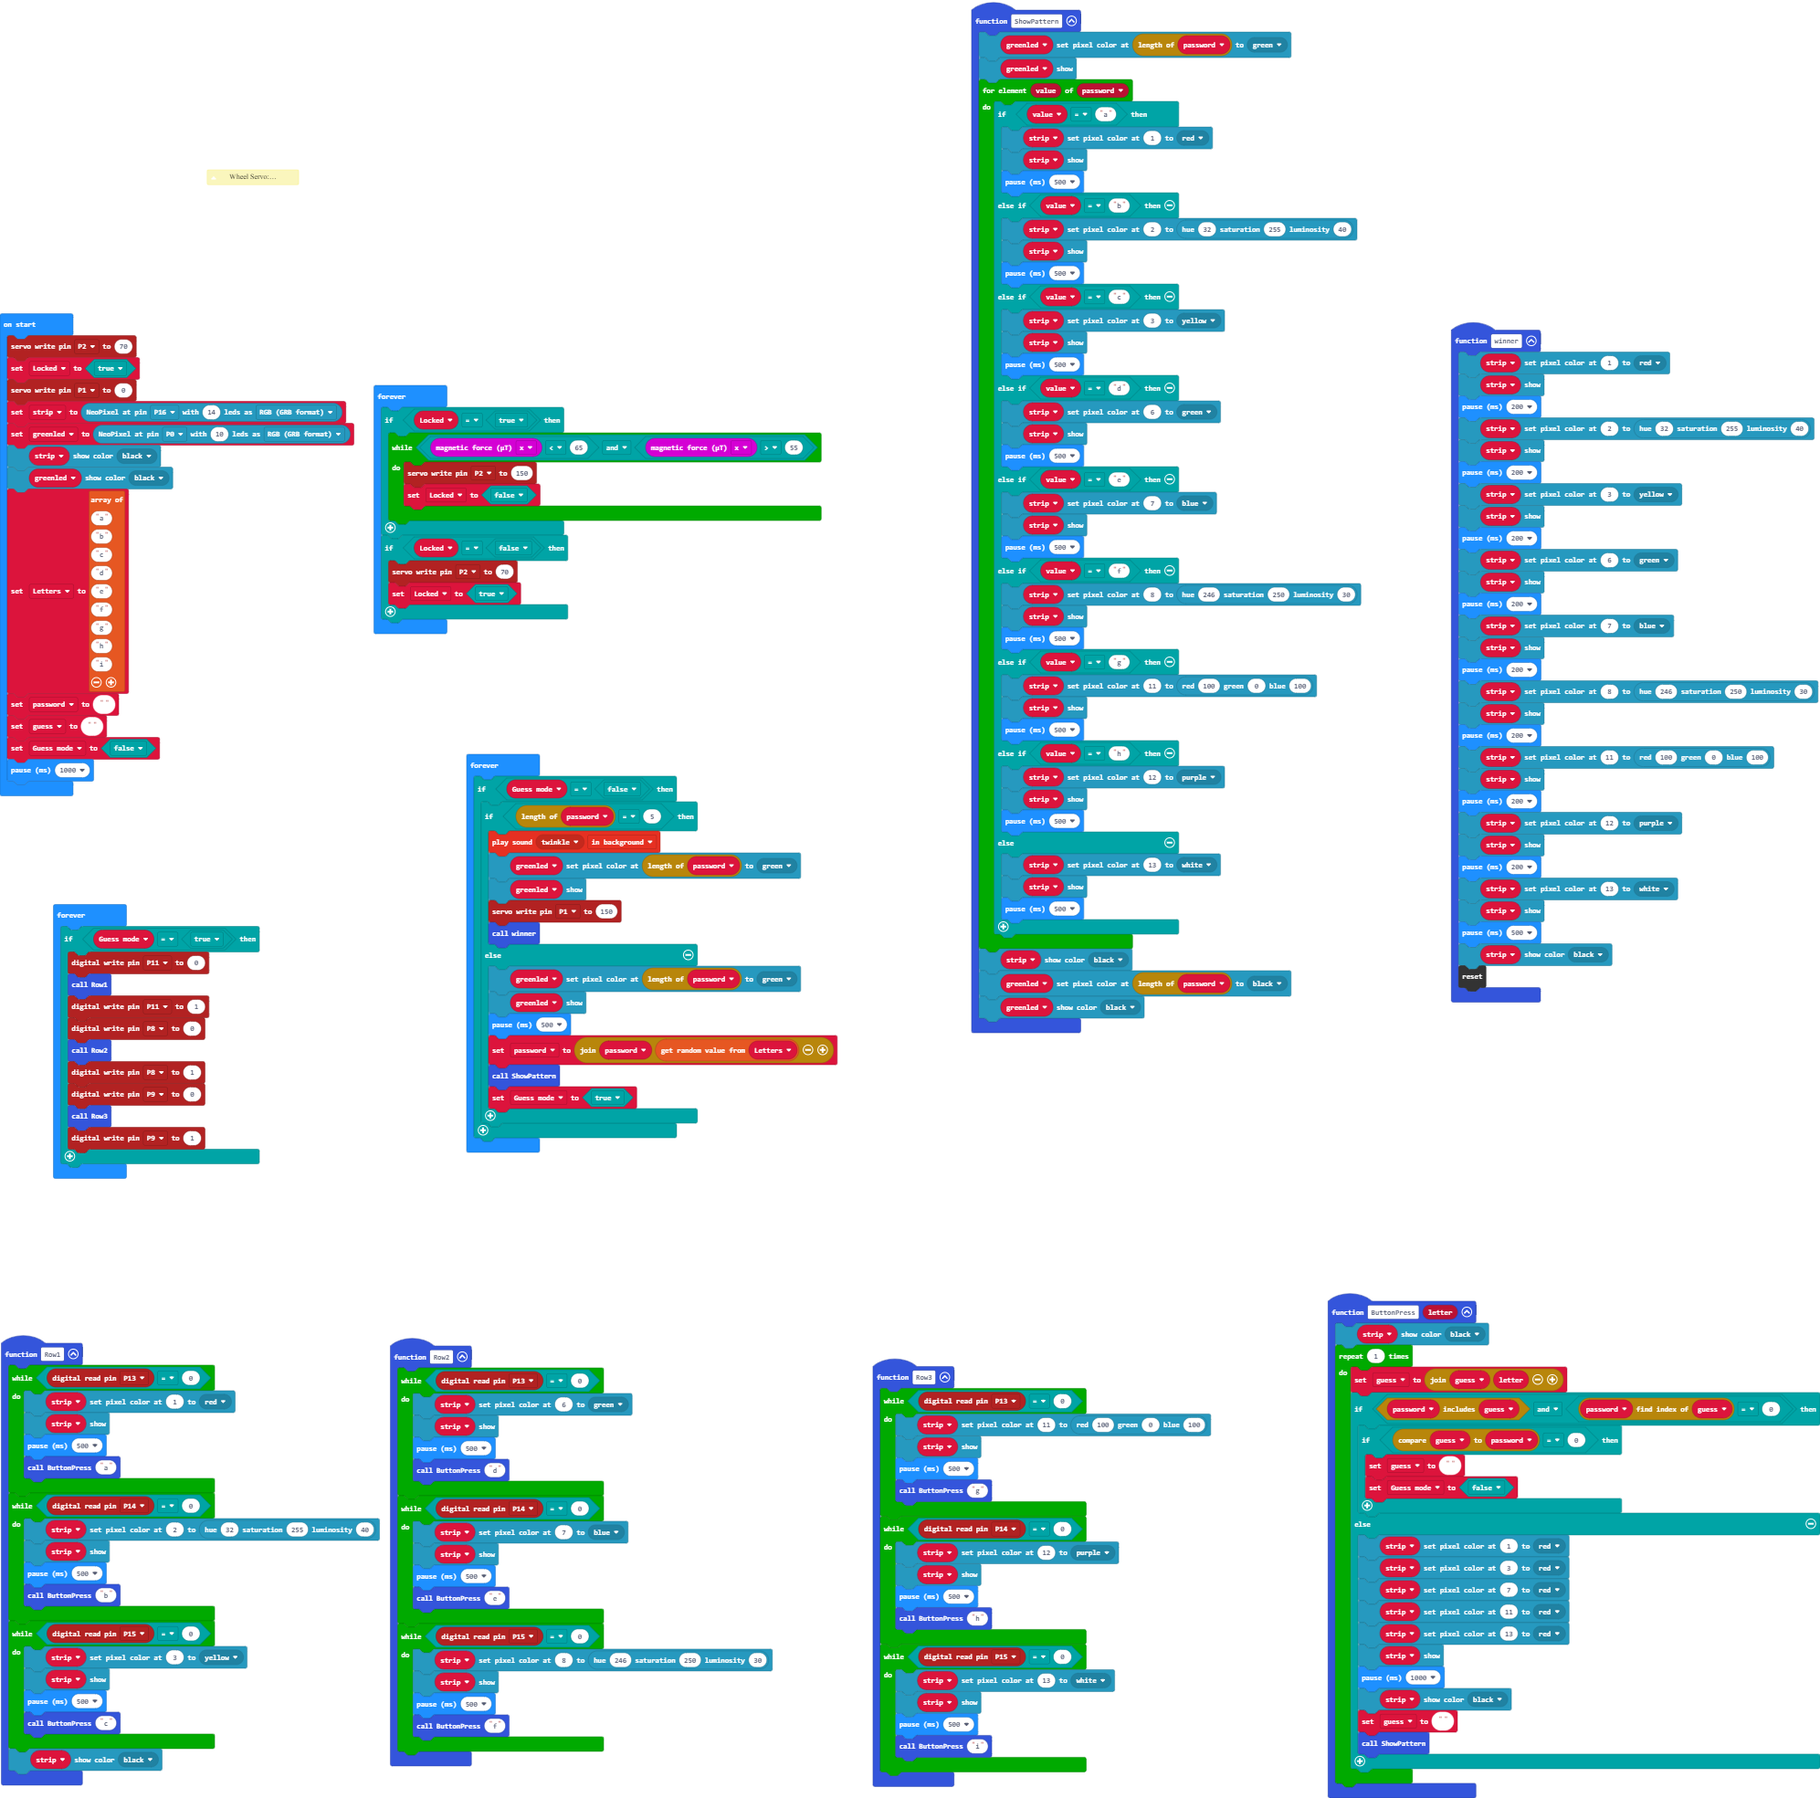
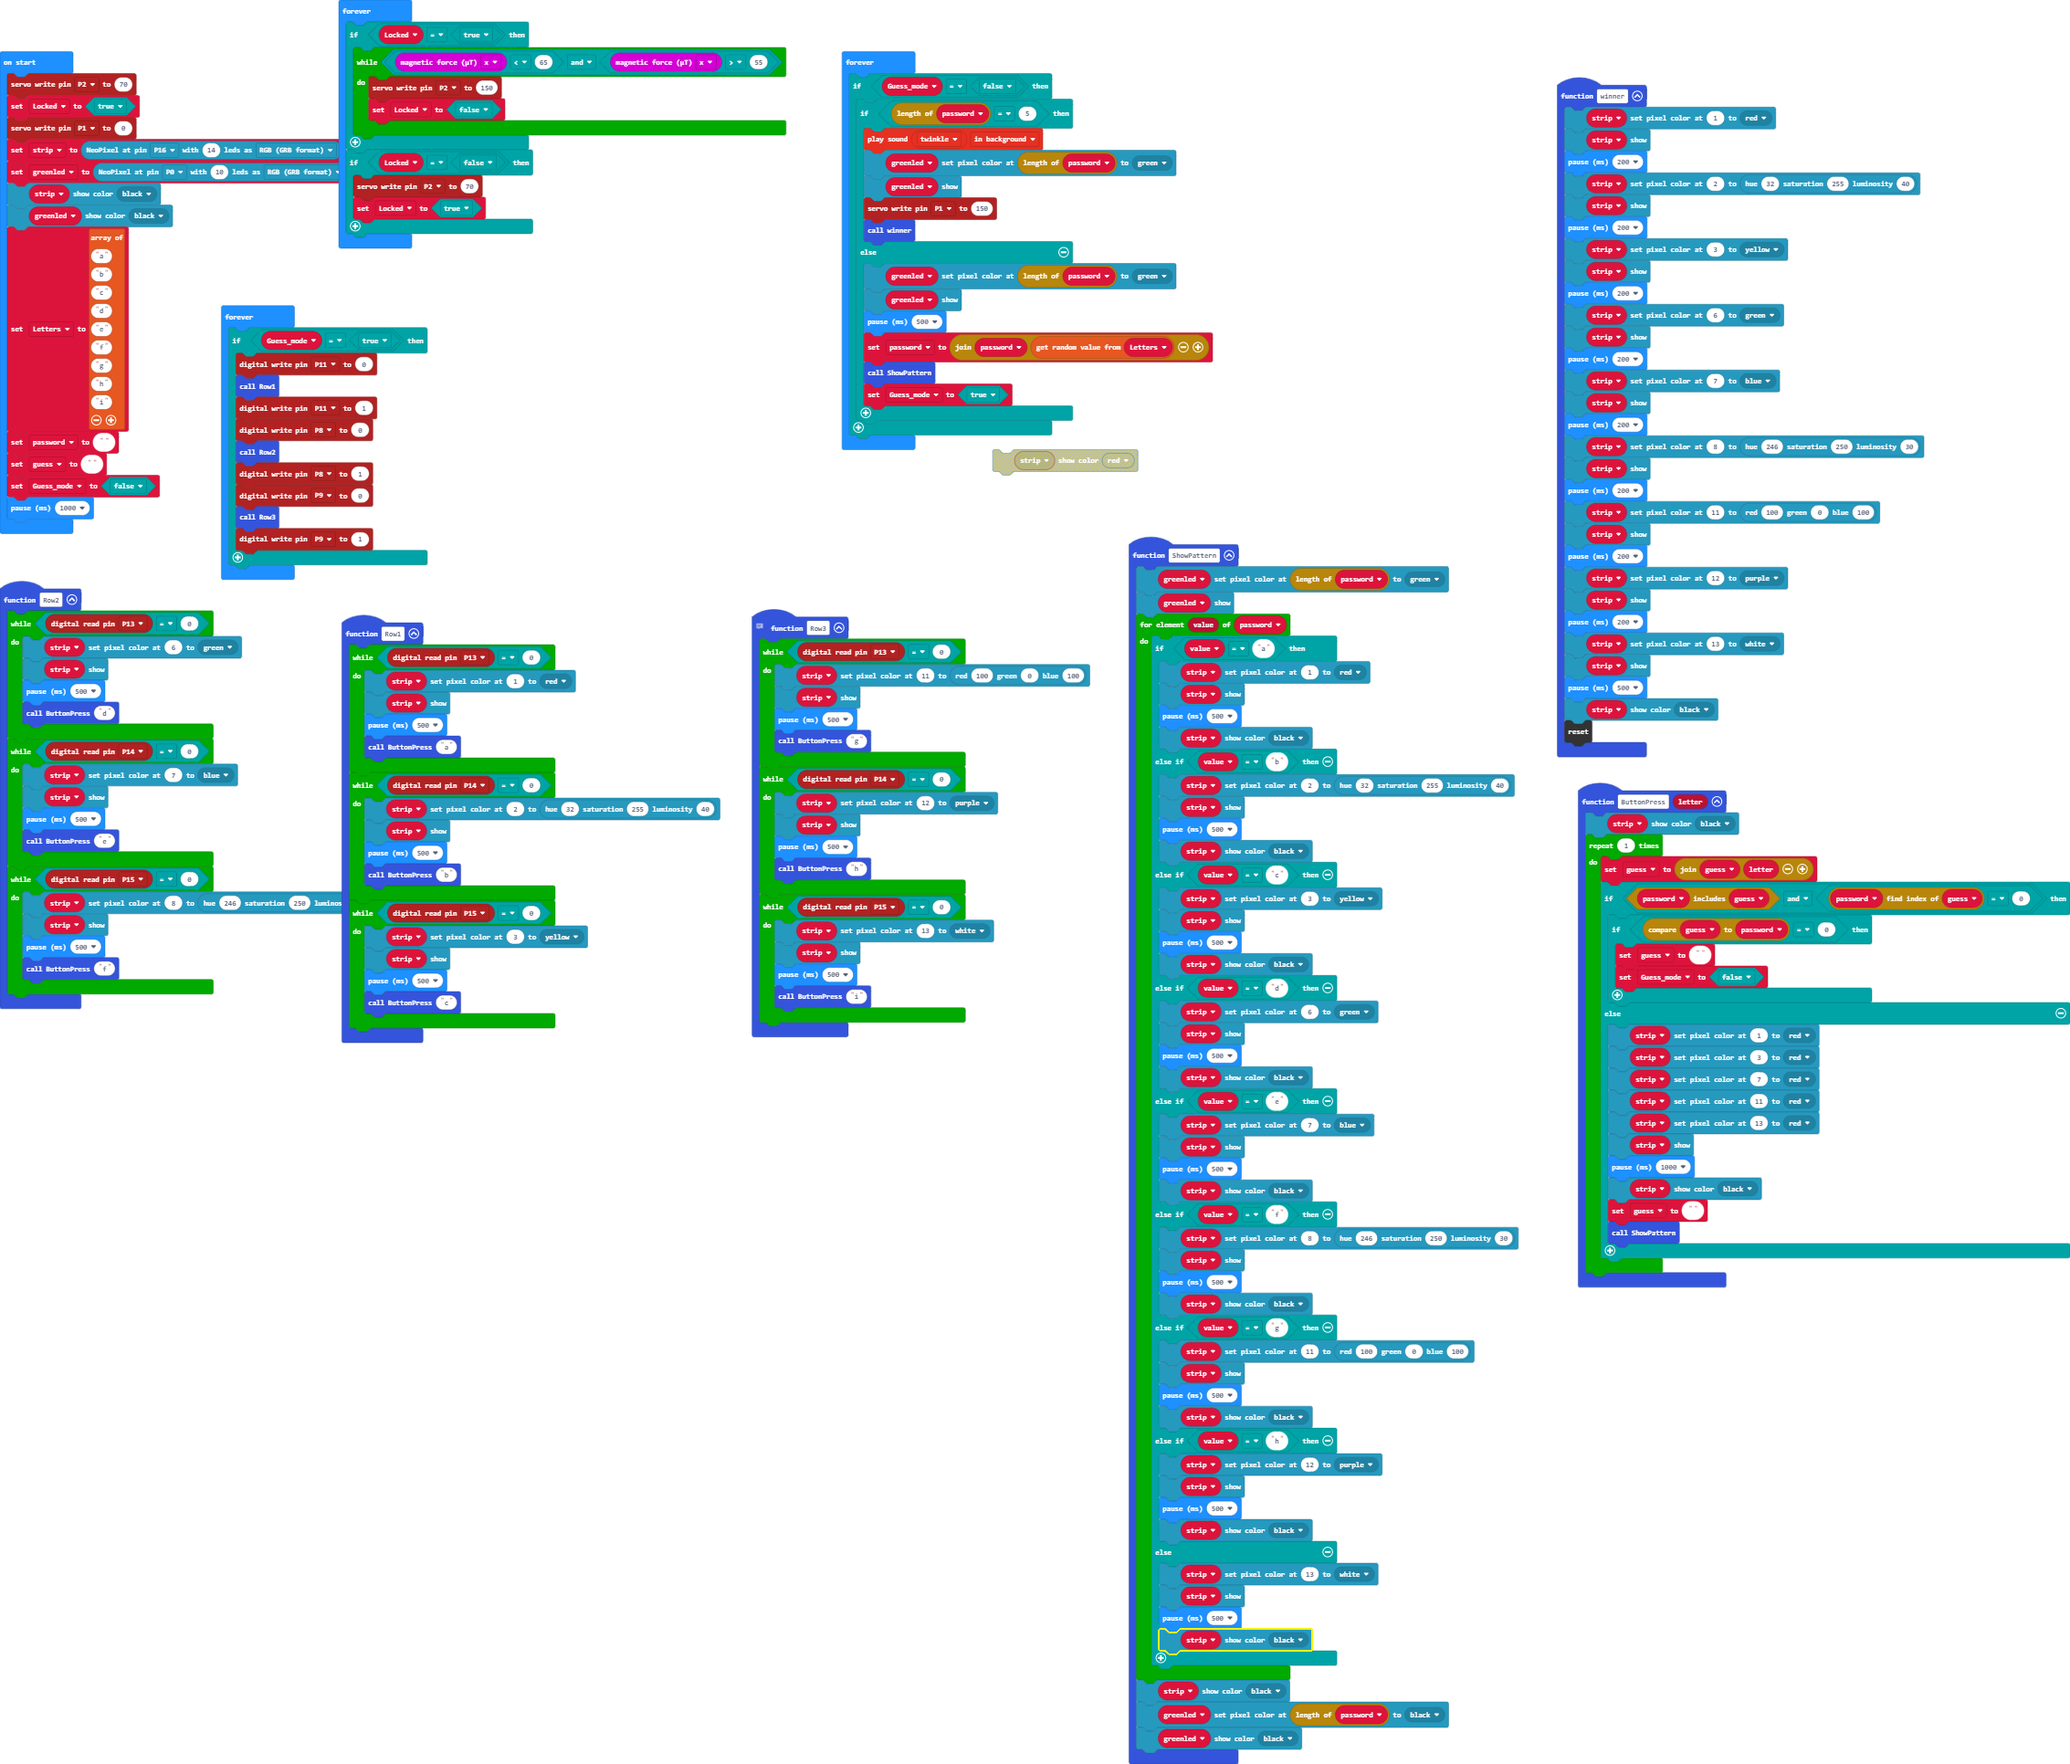
Update main.ts, main.blocks

diff --git a/main.ts b/main.ts
@@ -1,16 +1,14 @@
-/**
- * Wheel Servo: P1
- * 
- *  Lock Servo: P2
- * 
- * Green LEDs: P0 (Active 1-5)
- * 
- * Keypad LEDs: P16 (Active: 1-3 6-8, ,11-13)
- * 
- * Rows 11, 8, 9 
- * 
- * Columns: 13, 14, 15
- */
+// Wheel Servo: P1
+// 
+// Lock Servo: P2
+// 
+// Green LEDs: P0 (Active 1-5)
+// 
+// Keypad LEDs: P16 (Active: 1-3 6-8, ,11-13)
+// 
+// Rows 11, 8, 9
+// 
+// Columns: 13, 14, 15
 function Row3 () {
     while (pins.digitalReadPin(DigitalPin.P13) == 0) {
         strip.setPixelColor(11, neopixel.rgb(100, 0, 100))
@@ -124,7 +122,6 @@ function Row1 () {
         basic.pause(500)
         ButtonPress("c")
     }
-    strip.showColor(neopixel.colors(NeoPixelColors.Black))
 }
 function ShowPattern () {
     greenled.setPixelColor(password.length, neopixel.colors(NeoPixelColors.Green))
@@ -134,38 +131,47 @@ function ShowPattern () {
             strip.setPixelColor(1, neopixel.colors(NeoPixelColors.Red))
             strip.show()
             basic.pause(500)
+            strip.showColor(neopixel.colors(NeoPixelColors.Black))
         } else if (value == "b") {
             strip.setPixelColor(2, neopixel.hsl(32, 255, 40))
             strip.show()
             basic.pause(500)
+            strip.showColor(neopixel.colors(NeoPixelColors.Black))
         } else if (value == "c") {
             strip.setPixelColor(3, neopixel.colors(NeoPixelColors.Yellow))
             strip.show()
             basic.pause(500)
+            strip.showColor(neopixel.colors(NeoPixelColors.Black))
         } else if (value == "d") {
             strip.setPixelColor(6, neopixel.colors(NeoPixelColors.Green))
             strip.show()
             basic.pause(500)
+            strip.showColor(neopixel.colors(NeoPixelColors.Black))
         } else if (value == "e") {
             strip.setPixelColor(7, neopixel.colors(NeoPixelColors.Blue))
             strip.show()
             basic.pause(500)
+            strip.showColor(neopixel.colors(NeoPixelColors.Black))
         } else if (value == "f") {
             strip.setPixelColor(8, neopixel.hsl(246, 250, 30))
             strip.show()
             basic.pause(500)
+            strip.showColor(neopixel.colors(NeoPixelColors.Black))
         } else if (value == "g") {
             strip.setPixelColor(11, neopixel.rgb(100, 0, 100))
             strip.show()
             basic.pause(500)
+            strip.showColor(neopixel.colors(NeoPixelColors.Black))
         } else if (value == "h") {
             strip.setPixelColor(12, neopixel.colors(NeoPixelColors.Purple))
             strip.show()
             basic.pause(500)
+            strip.showColor(neopixel.colors(NeoPixelColors.Black))
         } else {
             strip.setPixelColor(13, neopixel.colors(NeoPixelColors.White))
             strip.show()
             basic.pause(500)
+            strip.showColor(neopixel.colors(NeoPixelColors.Black))
         }
     }
     strip.showColor(neopixel.colors(NeoPixelColors.Black))
